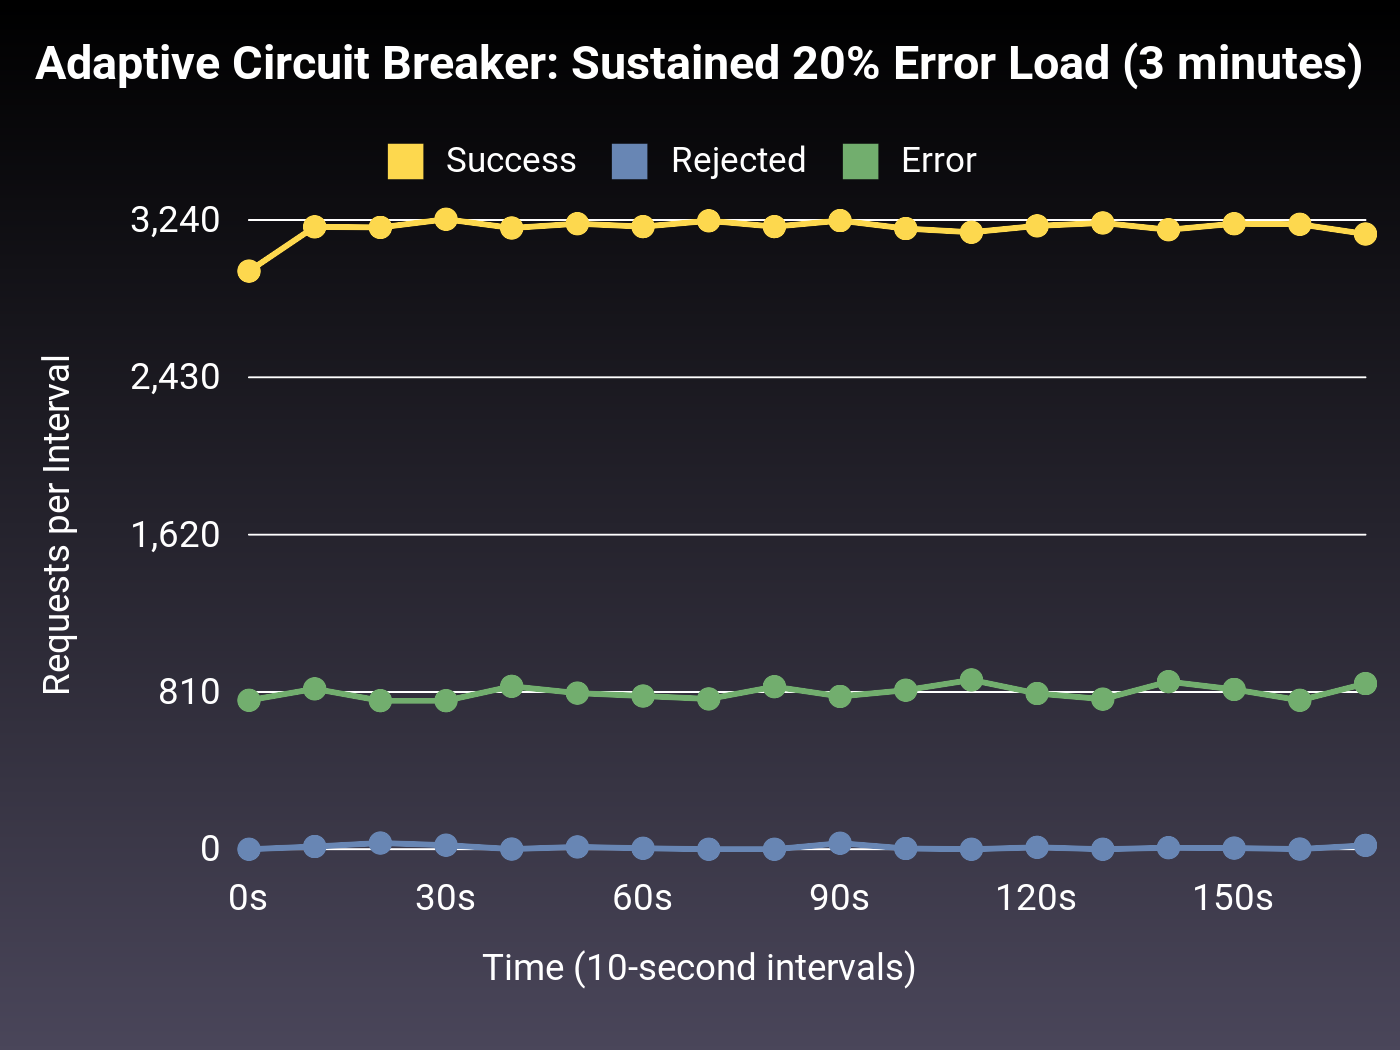
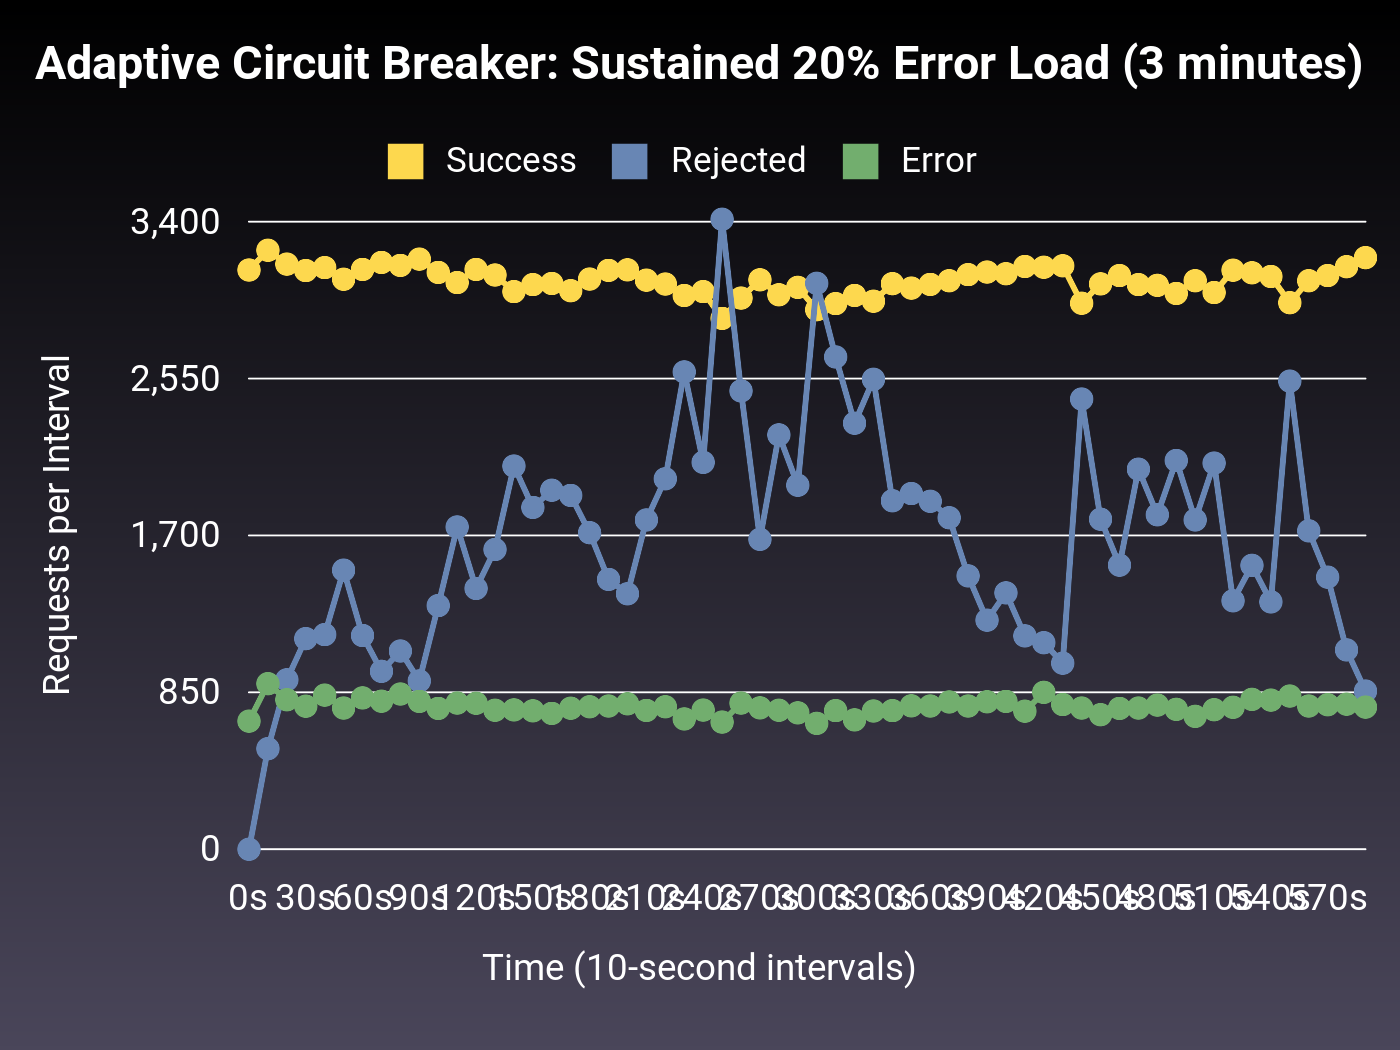
Fixing concurrency, unprotected ping, extras

diff --git a/experiments/test_sustained_load_adaptive.rb b/experiments/test_sustained_load_adaptive.rb
@@ -5,8 +5,9 @@ $LOAD_PATH.unshift(File.expand_path("../lib", __dir__))
 require "semian"
 require_relative "experimental_resource"
 
-puts "Creating experimental resource with ADAPTIVE circuit breaker..."
-resource = Semian::Experiments::ExperimentalResource.new(
+puts "Creating experimental resource configuration..."
+# Resource configuration (shared across all thread-local instances)
+resource_config = {
   name: "protected_service_adaptive",
   endpoints_count: 50,
   min_latency: 0.01,
@@ -22,12 +23,13 @@ resource = Semian::Experiments::ExperimentalResource.new(
     adaptive_circuit_breaker: true,  # Use adaptive circuit breaker
     bulkhead: false,
   },
-)
+}
 
 # Initialize Semian resource before threading to avoid race conditions
 puts "Initializing Semian resource..."
 begin
-  resource.request(0)  # Make one request to trigger registration
+  init_resource = Semian::Experiments::ExperimentalResource.new(**resource_config)
+  init_resource.request(0)  # Make one request to trigger registration
 rescue => e
   # Ignore any error, we just needed to trigger registration
 end
@@ -42,15 +44,20 @@ pid_mutex = Mutex.new
 
 num_threads = 60
 puts "Starting #{num_threads} concurrent request threads (50 requests/second each = 3000 rps total)..."
+puts "Each thread will have its own resource instance (matching production behavior)...\n"
 
 request_threads = []
 num_threads.times do |thread_id|
   request_threads << Thread.new do
+    # Each thread creates its own resource instance (like production)
+    # They share the same Semian circuit breaker via the name
+    thread_resource = Semian::Experiments::ExperimentalResource.new(**resource_config)
+    
     until done
       sleep(0.02) # Each thread: 50 requests per second
       
       begin
-        resource.request(rand(resource.endpoints_count))
+        thread_resource.request(rand(thread_resource.endpoints_count))
         
         outcomes_mutex.synchronize do
           current_sec = outcomes[Time.now.to_i] ||= {
@@ -121,11 +128,11 @@ monitor_thread = Thread.new do
   end
 end
 
-test_duration = 180 # 3 minutes
+test_duration = 600 # 10 minutes
 
 puts "\n=== Sustained Load Test (ADAPTIVE) ==="
 puts "Error rate: 20%"
-puts "Duration: #{test_duration} seconds (3 minutes)"
+puts "Duration: #{test_duration} seconds (10 minutes)"
 puts "Starting test...\n"
 
 start_time = Time.now
@@ -199,14 +206,15 @@ end
 # Display PID controller state per window
 if !pid_snapshots.empty?
   puts "\n=== PID Controller State Per Window ==="
-  puts "%-8s %-15s %-15s %-12s %-15s %-12s %-12s" % ["Window", "Current Err %", "Ideal Err %", "Health", "Reject %", "Integral", "Derivative"]
-  puts "-" * 100
+  puts "%-8s %-15s %-15s %-15s %-12s %-15s %-12s %-12s" % ["Window", "Current Err %", "Ideal Err %", "Ping Fail %", "Health", "Reject %", "Integral", "Derivative"]
+  puts "-" * 110
   
   pid_snapshots.each do |snapshot|
-    puts "%-8d %-15s %-15s %-12s %-15s %-12s %-12s" % [
+    puts "%-8d %-15s %-15s %-15s %-12s %-15s %-12s %-12s" % [
       snapshot[:window],
       "#{(snapshot[:current_error_rate] * 100).round(2)}%",
       "#{(snapshot[:ideal_error_rate] * 100).round(2)}%",
+      "#{(snapshot[:ping_failure_rate] * 100).round(2)}%",
       snapshot[:health_metric].round(4),
       "#{(snapshot[:rejection_rate] * 100).round(2)}%",
       snapshot[:integral].round(4),

diff --git a/lib/semian.rb b/lib/semian.rb
@@ -316,9 +316,9 @@ module Semian
     # Fixed parameters based on design document recommendations
     AdaptiveCircuitBreaker.new(
       name: name,
-      kp: 1.0,                      # Standard proportional gain
-      ki: 0.1,                      # Moderate integral gain
-      kd: 0.01,                     # Small derivative gain (as per design doc)
+      kp: 0.3,                      # Standard proportional gain
+      ki: 0.03,                      # Moderate integral gain
+      kd: 0.1,                     # Small derivative gain (as per design doc)
       window_size: 10,              # 10-second window for rate calculation and update interval
       history_duration: 300,       # 1 hour of history for p90 calculation
       ping_interval: 1.0,           # 1 second between health checks

diff --git a/lib/semian/adaptive_circuit_breaker.rb b/lib/semian/adaptive_circuit_breaker.rb
@@ -155,13 +155,15 @@ module Semian
       # Use unprotected_ping if available, otherwise fall back to ping
       return unless @resource
 
-      ping_method = if @resource.respond_to?(:unprotected_ping)
-        :unprotected_ping
-      elsif @resource.respond_to?(:ping)
-        :ping
-      else
-        return
-      end
+      ping_method = :unprotected_ping
+      # ping_method = if @resource.respond_to?(:unprotected_ping)
+      #  :unprotected_ping
+      # elsif @resource.respond_to?(:ping)
+      #  :ping
+      # else
+      #  return
+      # end
+      # return
 
       # Send ungated ping (not affected by rejection)
       begin

diff --git a/experiments/experimental_resource.rb b/experiments/experimental_resource.rb
@@ -172,6 +172,14 @@ module Semian
         end
       end
 
+      def unprotected_ping
+        if should_fail?(current_error_rate)
+          raise RequestError, "Ping failed"
+        else
+          true
+        end
+      end
+
       # Get current error rate (accounting for ramp-up)
       def current_error_rate
         return @error_rate_degradation[:rate] unless @error_rate_degradation[:ramp_start] && @error_rate_degradation[:ramp_duration] > 0

diff --git a/lib/semian/pid_controller.rb b/lib/semian/pid_controller.rb
@@ -106,7 +106,7 @@ module Semian
       ping_failure_rate ||= @last_ping_failure_rate
 
       # dt is always window_size since we update once per window
-      dt = @window_size
+      dt = @window_size / @window_size
 
       # Calculate the current error (health metric)
       error = calculate_health_metric(current_error_rate, ping_failure_rate)
